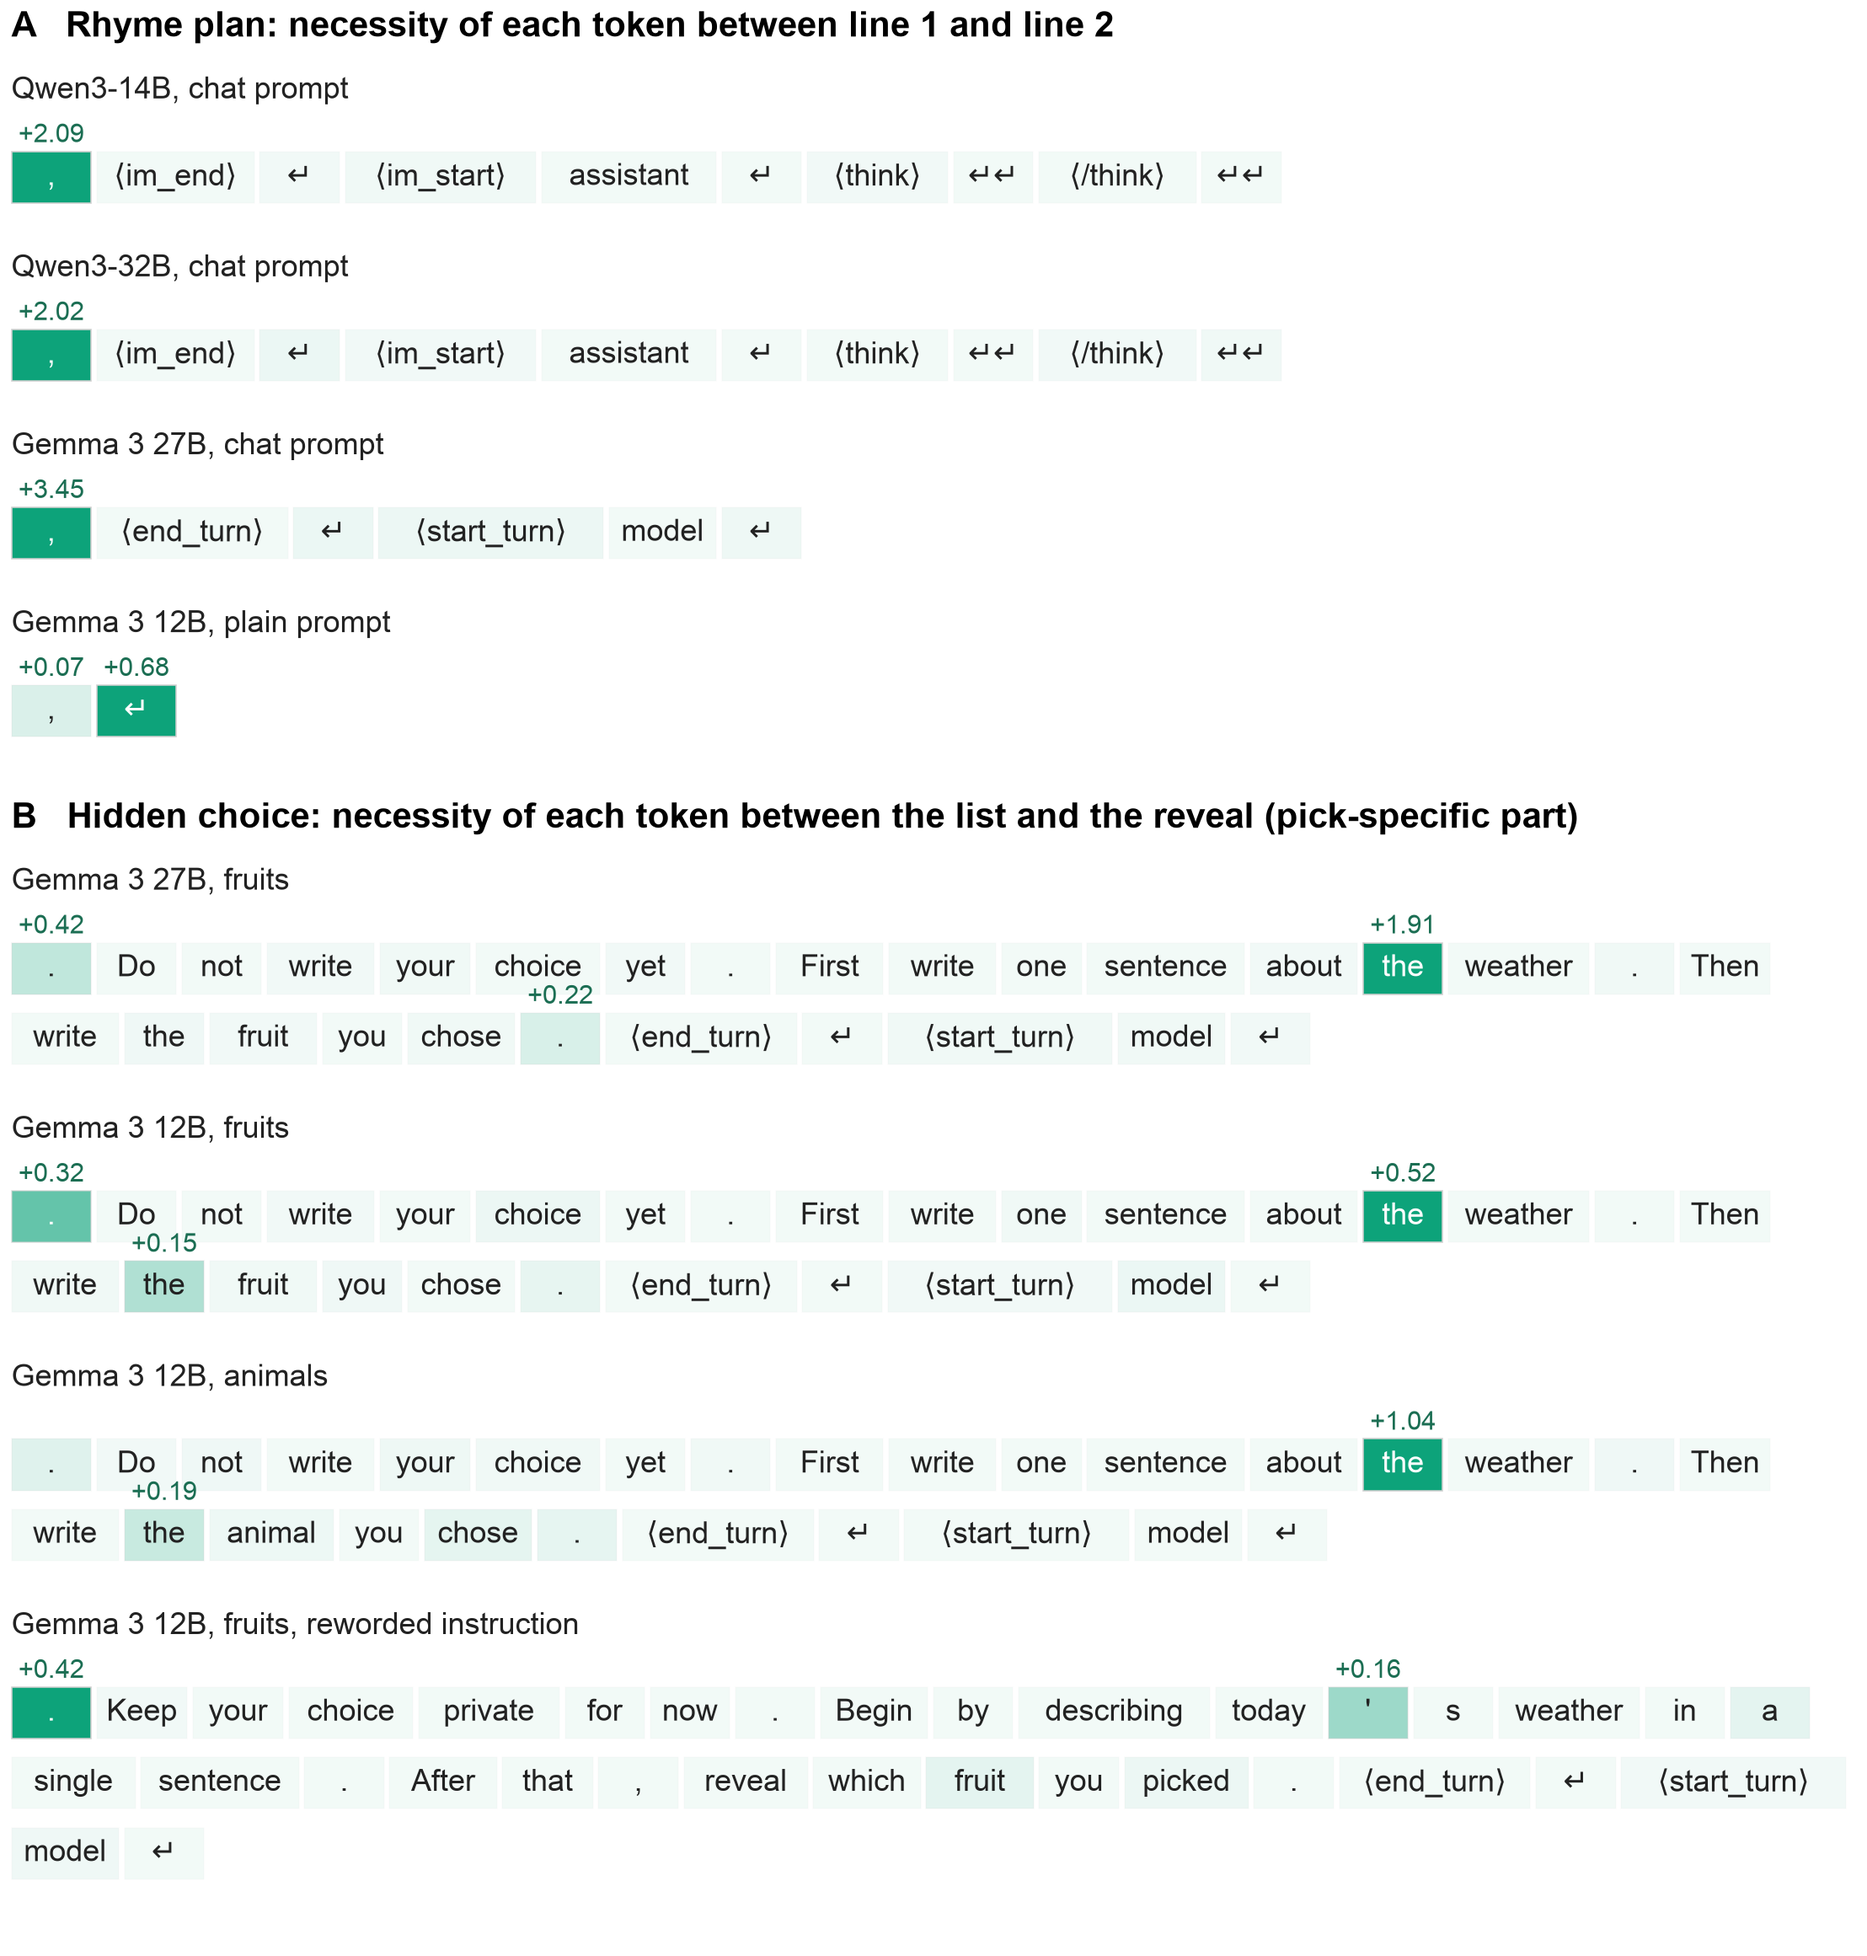
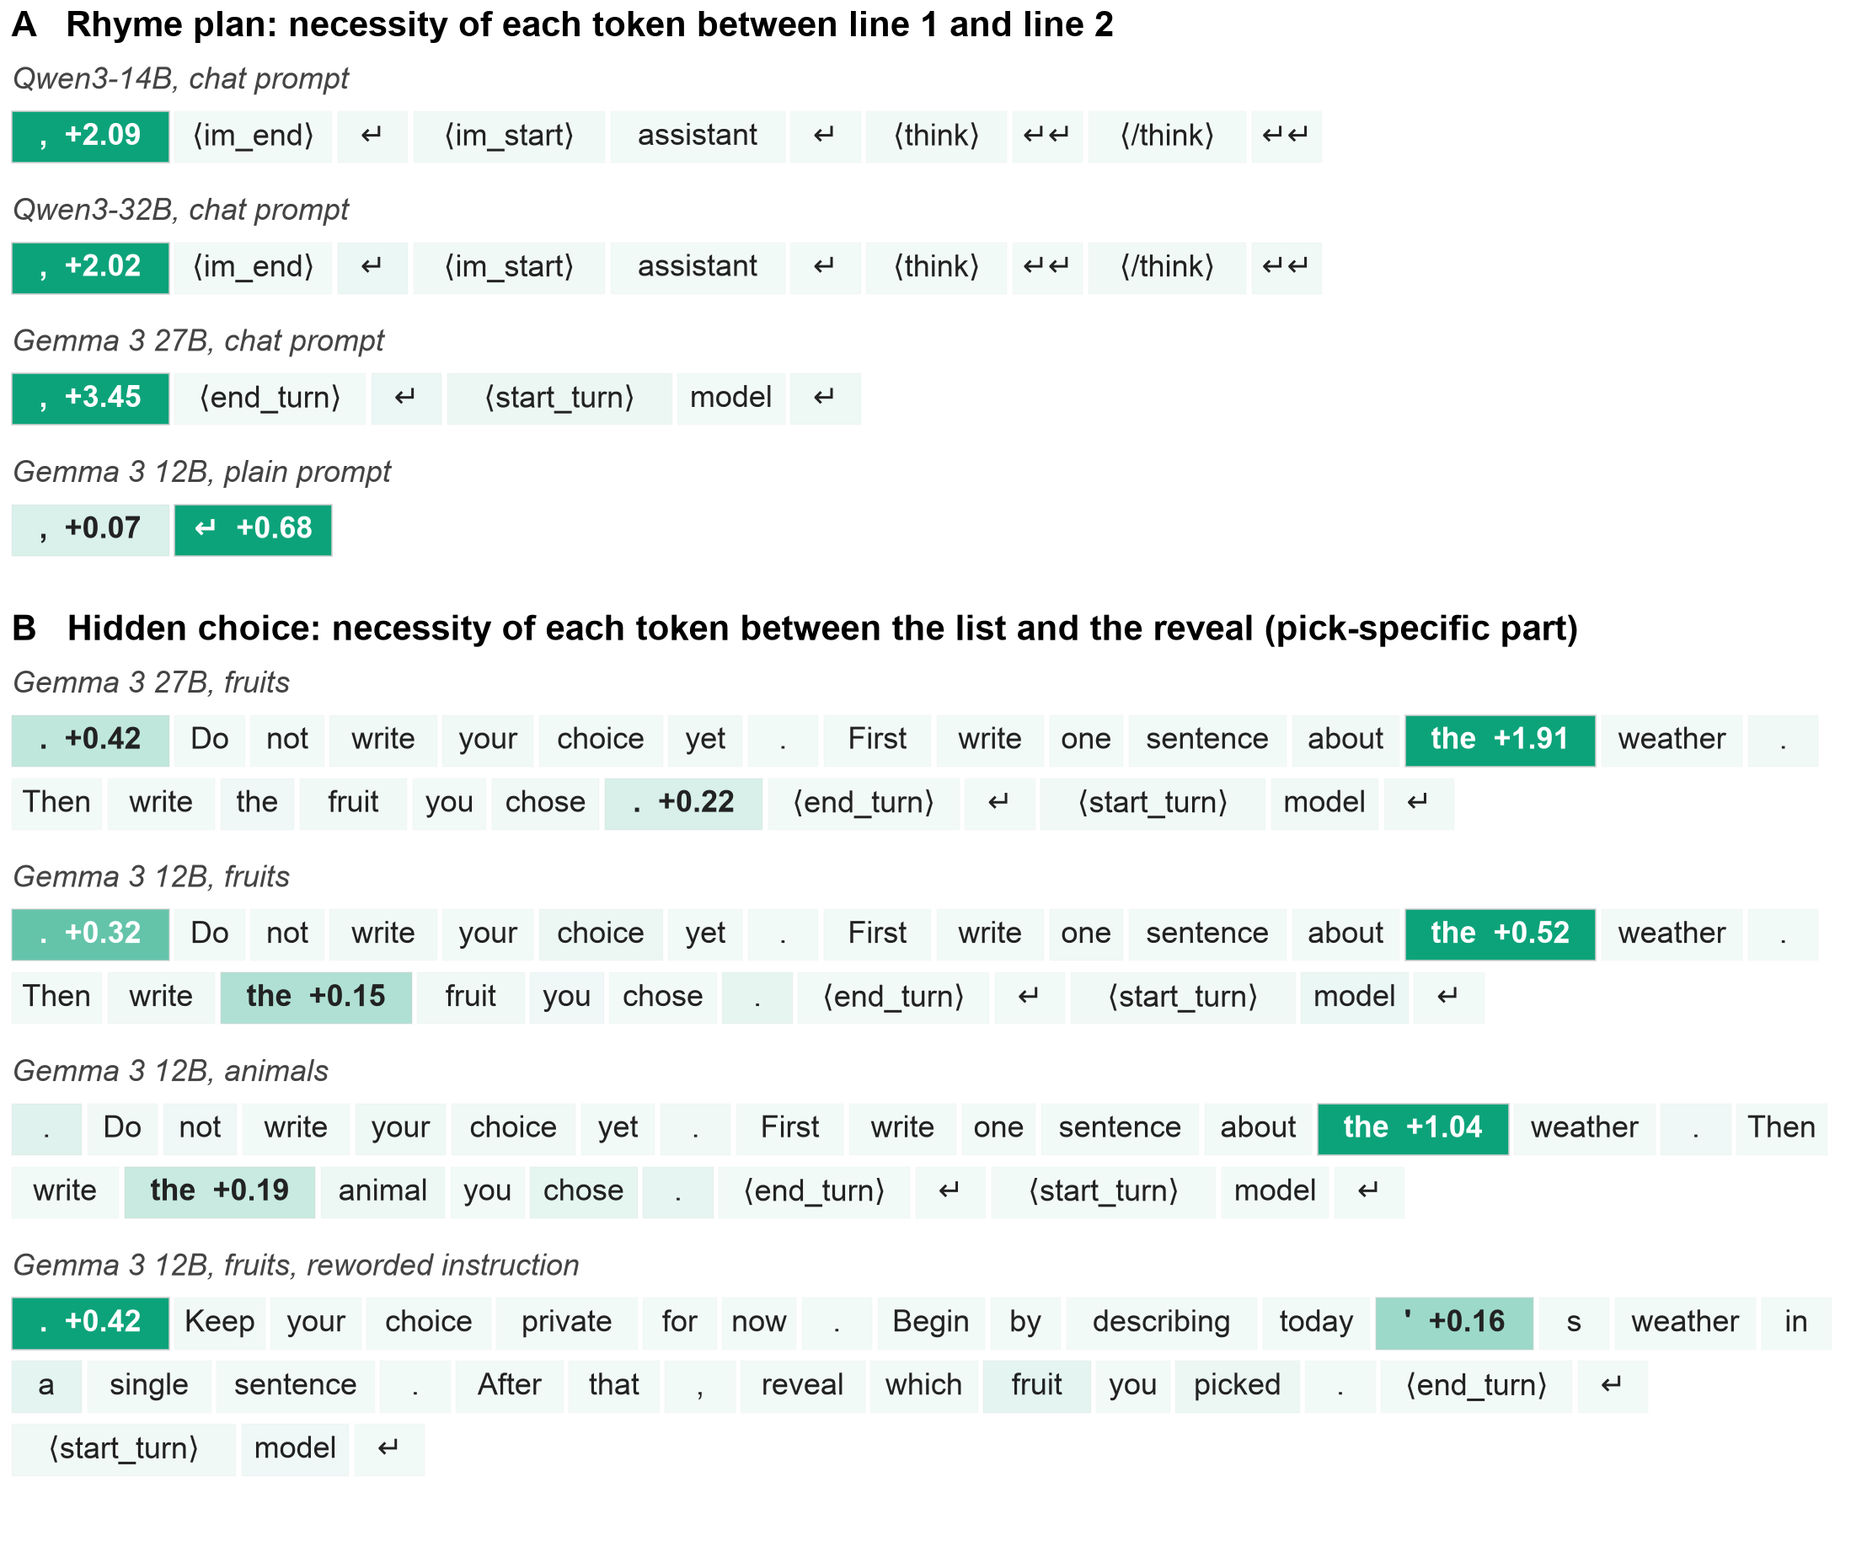
Figure 3: values inside highlighted cells, compact rows; reworded-instruction row

diff --git a/manuscript/figures/make_iclr_figures.py b/manuscript/figures/make_iclr_figures.py
@@ -314,11 +314,16 @@ def pretty(t):
     return PRETTY.get(t, t.replace("▁", "").replace("Ġ", "").replace("Ċ", "↵").replace("\n", "↵"))
 
 
-def layout(toks, width_pt):
+def cell_text(t, v, vmax):
+    return f"{pretty(t)}  {v:+.2f}" if v >= 0.1 * vmax else pretty(t)
+
+
+def layout(toks, vals, width_pt):
     """Token cells with widths proportional to their text; wraps to new lines. Returns [(line, x, w)]."""
+    vmax = max(max(vals), 1e-6)
     out, x, line = [], 0.0, 0
-    for t in toks:
-        w = max(len(pretty(t)) * CH + 5.0, 17.0)
+    for t, v in zip(toks, vals):
+        w = max(len(cell_text(t, v, vmax)) * CH + 5.0, 15.0)
         if x + w > width_pt and x > 0:
             line, x = line + 1, 0.0
         out.append((line, x, w))
@@ -340,6 +345,7 @@ def fig3():
             ("gemma-3-12b-it", "choice_replicate_fruits_localize_summary.json", "Gemma 3 12B, fruits"),
             ("gemma-3-27b-it", "choice_replicate_animals_localize_summary.json", "Gemma 3 27B, animals"),
             ("gemma-3-12b-it", "choice_replicate_animals_localize_summary.json", "Gemma 3 12B, animals"),
+            ("gemma-3-4b-it", "choice_replicate_fruits_localize_summary.json", "Gemma 3 4B, fruits"),
             ("gemma-3-27b-it", "choice_replicate_fruits_localize_alt_summary.json",
              "Gemma 3 27B, fruits, reworded instruction"),
             ("gemma-3-12b-it", "choice_replicate_fruits_localize_alt_summary.json",
@@ -349,7 +355,7 @@ def fig3():
             rows.append(("B", lab, [x["token"] for x in s["necessity_by_token"]],
                          [x["mean"] for x in s["necessity_by_token"]]))
     width_pt = W * 72 - 4
-    line_h, lab_h, head_h, gap = 15.0, 18.0, 13.0, 5.0
+    line_h, lab_h, head_h, gap = 13.5, 10.5, 12.0, 4.0
     plan, y = [], 0.0
     for key in ("A", "B"):
         sel = [r for r in rows if r[0] == key]
@@ -358,11 +364,11 @@ def fig3():
         plan.append(("head", key, y))
         y += head_h
         for _, lab, t, v in sel:
-            lay = layout(t, width_pt)
+            lay = layout(t, v, width_pt)
             plan.append(("row", (lab, t, v, lay), y))
             y += lab_h + line_h * (max(l for l, _, _ in lay) + 1) + gap
-        y += 4.0
-    H = y + 2
+        y += 5.0
+    H = y + 1
     fig = plt.figure(figsize=(W, H / 72))
     ax = fig.add_axes([0, 0, 1, 1])
     ax.set_xlim(0, W * 72)
@@ -376,17 +382,15 @@ def fig3():
             continue
         lab, toks, vals, lay = obj
         vmax = max(max(vals), 1e-6)
-        ax.text(1, y0 + 2, lab, fontsize=6.4, va="top", color=COL["ink"])
+        ax.text(1, y0 + 1, lab, fontsize=6.4, va="top", color="#444444", style="italic")
         for (line, x, w), t, v in zip(lay, toks, vals):
             a = max(0.0, min(1.0, v / vmax))
             yt = y0 + lab_h + line * line_h
-            ax.add_patch(Rectangle((x + 1, yt), w, line_h - 4.0, fc=COL["storage"], alpha=0.05 + 0.9 * a,
+            ax.add_patch(Rectangle((x + 1, yt), w, line_h - 2.5, fc=COL["storage"], alpha=0.05 + 0.9 * a,
                                    ec="#D0D0D0", lw=0.3))
-            ax.text(x + 1 + w / 2, yt + (line_h - 4.0) / 2, pretty(t), ha="center", va="center", fontsize=FS3,
-                    color="white" if a > 0.55 else COL["ink"])
-            if v >= 0.1 * vmax:
-                ax.text(x + 1 + w / 2, yt - 0.8, f"{v:+.2f}", ha="center", va="bottom", fontsize=5.6,
-                        color="#1B6E53")
+            ax.text(x + 1 + w / 2, yt + (line_h - 2.5) / 2, cell_text(t, v, vmax), ha="center", va="center",
+                    fontsize=FS3, color="white" if a > 0.55 else COL["ink"],
+                    weight="bold" if v >= 0.1 * vmax else "normal")
     save(fig, "iclr_fig3_storage_sites.png")
 
 
